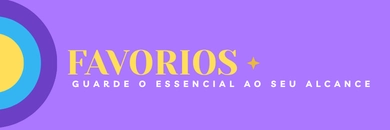
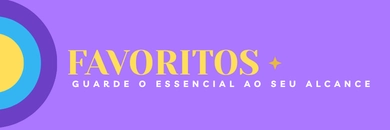
update

Changed region(s): [[0.4923, 0.3692, 0.7385, 0.5846]]

diff --git a/assets/css/cronograma.css b/assets/css/cronograma.css
@@ -91,16 +91,38 @@ body {
 .sidebar-overlay { display: none; }
 
 /* ==========================================================================
-   2. LAYOUT PRINCIPAL
+   2. LAYOUT PRINCIPAL (mesmas medidas do livros.css)
    ========================================================================== */
+
+/* ---------- BANNER (padrão das outras páginas) ----------
+   PC: até 1600px de largura. A altura segue a proporção da própria imagem. */
+.banner {
+    width: 100%;
+    max-width: 1600px;
+    margin: 20px auto 0 auto;
+    display: block;
+    flex-shrink: 0;
+}
+.banner img {
+    display: block;
+    width: 100%;
+    height: auto;
+    border-radius: 15px;
+}
+.banner .banner-dark  { display: none; }
+.banner .banner-light { display: block; }
+html.dark-theme .banner .banner-light { display: none; }
+html.dark-theme .banner .banner-dark  { display: block; }
+
+/* ---------- Grade principal (equivale ao .wrapper do livros) ---------- */
 .main-layout {
     display: grid;
-    grid-template-columns: 1fr 340px;
-    gap: 25px;
-    max-width: 1300px;
-    margin: 50px auto 40px auto;
-    padding: 0 20px;
+    grid-template-columns: minmax(0, 1fr) 340px;
+    gap: 30px;
     width: 100%;
+    max-width: 1670px;
+    margin: 0 auto;
+    padding: 20px 40px 40px;
     flex: 0 0 auto;
 }
 
@@ -789,12 +811,14 @@ html.dark-theme .materia-accordion-content li { color: var(--text) !important; }
 .menu-materias .custom-checkbox { margin: 0; }
 
 /* ==========================================================================
-   12. RESPONSIVO
+   12. RESPONSIVO (mesmos breakpoints do livros.css)
    ========================================================================== */
 
 /* ---------- TABLET (até 1024px): coluna única ---------- */
 @media (max-width: 1024px) {
-    .main-layout { grid-template-columns: 1fr; gap: 20px; margin-top: 20px; padding: 0 16px; }
+    .banner { padding: 0 20px; margin-top: 14px; }
+
+    .main-layout { grid-template-columns: 1fr; gap: 20px; margin-top: 0; padding: 16px 20px 30px; }
     .container-principal, .sidebar-historico { padding: 22px; }
 
     .calendar-embed { height: 65vh; min-height: 460px; }
@@ -805,6 +829,11 @@ html.dark-theme .materia-accordion-content li { color: var(--text) !important; }
 @media (max-width: 768px) {
     html, body { overflow-x: clip; }
     body { padding-bottom: 84px; }
+
+    /* Banner e grade com o mesmo recuo lateral do livros */
+    .banner { margin-top: 10px; padding: 0 12px; }
+    .banner img { border-radius: 12px; }
+    .main-layout { padding: 12px 12px 24px; margin-top: 0; }
 
     /* Histórico vira menu lateral (abre pelo hambúrguer do header) */
     .sidebar-historico {
@@ -859,7 +888,6 @@ html.dark-theme .materia-accordion-content li { color: var(--text) !important; }
 
 /* ---------- CELULAR PEQUENO (até 640px) ---------- */
 @media (max-width: 640px) {
-    .main-layout { padding: 0 12px; margin-top: 12px; }
     .container-principal { padding: 18px 16px; border-radius: 16px; }
 
     .card-header { flex-wrap: wrap; gap: 12px; margin-bottom: 20px; }

diff --git a/pages/cronograma.php b/pages/cronograma.php
@@ -479,6 +479,13 @@ $materias_json = array_map(fn($m) => [
     'nome' => $m['nome_materia'],
     'cor'  => $m['cor_hex'] ?? '#7c3aed'
 ], $lista_materias_db);
+
+// Banner só aparece na tela do cronograma já criado (agenda aberta).
+// Para mostrar também no formulário, troque por: $mostrarBanner = true;
+$mostrarBanner = ($calendar_id_exibir && !isset($_GET['editar']));
+
+// Versiona o CSS dos banners pela data de modificação (igual ao livros.php)
+$verBanner = @filemtime(__DIR__ . '/../assets/css/banner.css') ?: time();
 ?>
 <!DOCTYPE html>
 <html lang="pt-br">
@@ -491,6 +498,7 @@ $materias_json = array_map(fn($m) => [
     <link rel="stylesheet" href="https://cdnjs.cloudflare.com/ajax/libs/font-awesome/6.4.0/css/all.min.css">
     <link rel="stylesheet" href="../assets/css/cronograma.css">
     <link rel="stylesheet" href="../assets/css/header.css">
+    <link rel="stylesheet" href="../assets/css/banner.css?v=<?= $verBanner ?>">
     <link rel="icon" type="image/png" href="../assets/img/logos/favicon.webp">
 
     <script src="https://cdn.jsdelivr.net/npm/sweetalert2@11"></script>
@@ -509,6 +517,24 @@ $materias_json = array_map(fn($m) => [
 <body>
 
     <?php include '../interface/header.php'; ?>
+
+    <?php if ($mostrarBanner): ?>
+    <!-- ================= BANNER (MODO CLARO E ESCURO · PC / TABLET / CELULAR) ================= -->
+    <!-- Troque os nomes dos arquivos abaixo pelos banners reais de Cronogramas -->
+    <section class="banner">
+        <picture class="banner-light">
+            <source media="(max-width: 600px)"  srcset="../assets/img/banners/cellphone/cronogramaCelularClaro.webp">
+            <source media="(max-width: 1024px)" srcset="../assets/img/banners/tablet/cronogramaTabletClaro.webp">
+            <img src="../assets/img/banners/pc/cronogramaClaro.webp" alt="Banner Cronogramas">
+        </picture>
+        <picture class="banner-dark">
+            <source media="(max-width: 600px)"  srcset="../assets/img/banners/cellphone/cronogramaCelularEscuro.webp">
+            <source media="(max-width: 1024px)" srcset="../assets/img/banners/tablet/cronogramaTabletEscuro.webp">
+            <img src="../assets/img/banners/pc/cronogramaEscuro.webp" alt="Banner Cronogramas Escuro">
+        </picture>
+    </section>
+    <?php endif; ?>
+
     <div class="sidebar-overlay" id="sidebarOverlay"></div>
 
     <div id="confirmModal" class="modal" style="<?= $mostrar_modal ? 'display:flex;' : '' ?>">

diff --git a/pages/favoritos.php b/pages/favoritos.php
@@ -70,14 +70,14 @@ $verBanner = @filemtime(__DIR__ . '/../assets/css/banner.css') ?: time();
     <!-- ================= BANNER (MODO CLARO E ESCURO · PC / TABLET / CELULAR) ================= -->
     <section class="banner">
         <picture class="banner-light">
-            <source media="(max-width: 600px)"  srcset="../assets/img/banners/cellphone/materiasCelularClaro.webp">
-            <source media="(max-width: 1024px)" srcset="../assets/img/banners/tablet/materiaisTabletClaro.webp">
-            <img src="../assets/img/banners/pc/claroMaterial.webp" alt="Banner Materiais">
+            <source media="(max-width: 600px)"  srcset="../assets/img/banners/cellphone/favoritosCelularClaro.webp">
+            <source media="(max-width: 1024px)" srcset="../assets/img/banners/tablet/favoritosTabletClaro.webp">
+            <img src="../assets/img/banners/pc/favoritosClaro.webp" alt="Banner Materiais">
         </picture>
         <picture class="banner-dark">
-            <source media="(max-width: 600px)"  srcset="../assets/img/banners/cellphone/materiasCelularEscuro.webp">
-            <source media="(max-width: 1024px)" srcset="../assets/img/banners/tablet/materiaisTabletEscuro.webp">
-            <img src="../assets/img/banners/pc/escuroMaterial.webp" alt="Banner Materiais Escuro">
+            <source media="(max-width: 600px)"  srcset="../assets/img/banners/cellphone/favoritosCelularEscuro.webp">
+            <source media="(max-width: 1024px)" srcset="../assets/img/banners/tablet/favoritosTabletEscuro.webp">
+            <img src="../assets/img/banners/pc/favoritosEscuro.webp" alt="Banner Materiais Escuro">
         </picture>
     </section>
 
